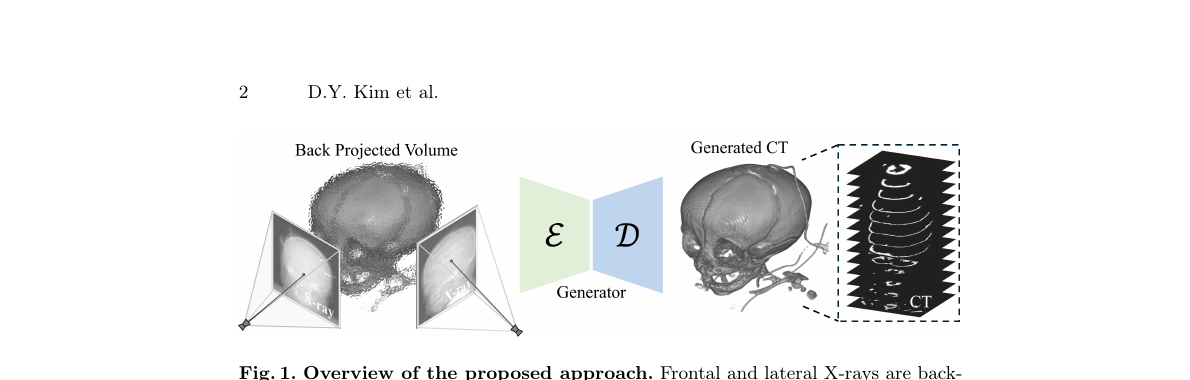
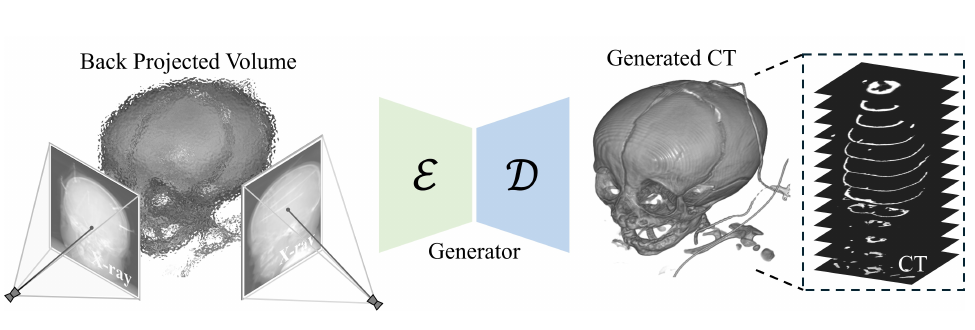
Tighten PSCT-Net architecture thumbnail crop
Recrop the overview figure to remove page header/caption whitespace
and cache-bust the image so the updated thumbnail appears.

diff --git a/index.html b/index.html
@@ -142,7 +142,7 @@
 
     <div class="pub-item has-thumb">
       <div class="pub-thumb pub-thumb--wide">
-        <img src="PSCT-Net.png" alt="PSCT-Net Architecture" loading="lazy">
+        <img src="PSCT-Net.png?v=2" alt="PSCT-Net Architecture" loading="lazy">
       </div>
       <div class="pub-details">
         <h3>PSCT-Net: Geometry-Aware Pediatric Skull CT Reconstruction via Differentiable Back-Projection and Attention-Guided Refinement</h3>
